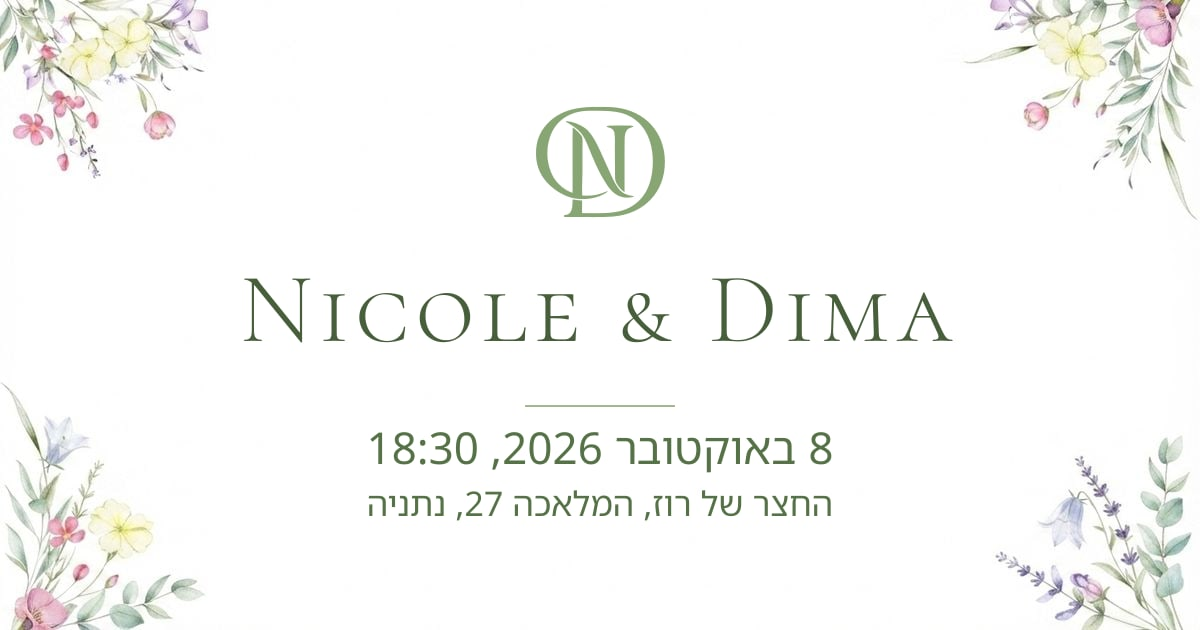
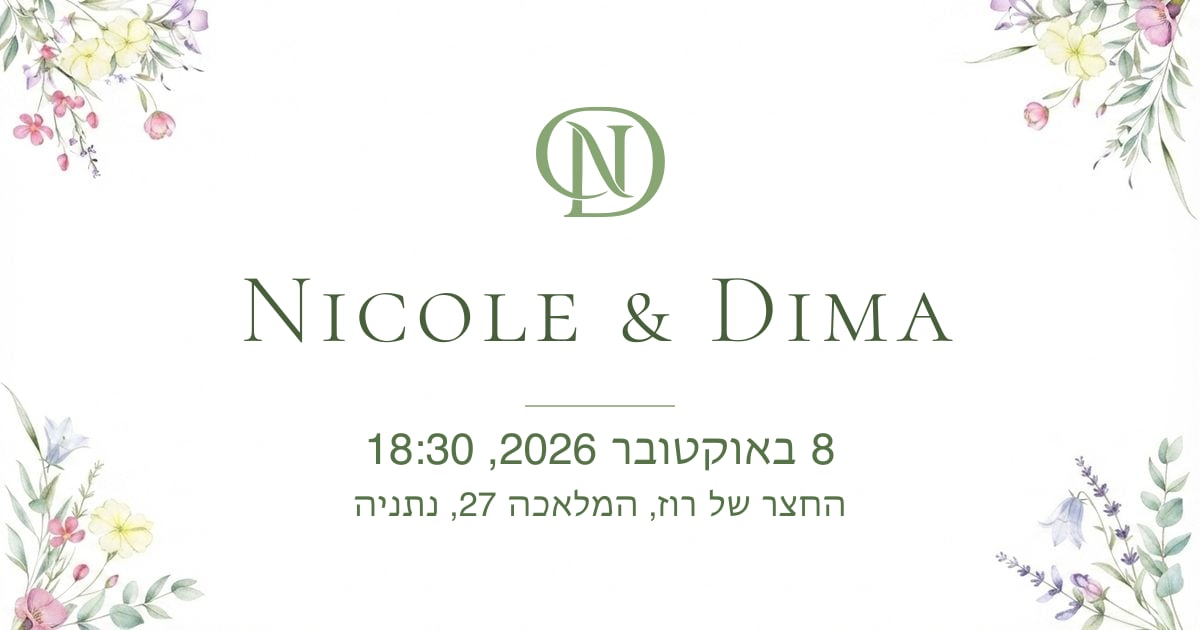
Build a Russian preview card, not just a Russian locale tag
The card paints the date and venue onto the artwork, and both were Hebrew
for everyone — so a Russian household got a Russian description line under a
picture that still read '8 באוקטובר 2026' and a Hebrew address. The og:locale
was right and the image was not, which is the half nobody reads twice.

npm run og-card now builds one card per language from the same artwork:
og-card.jpg and og-card-ru.jpg. Only the two painted lines differ — the
florals, the monogram and the Latin 'NICOLE & DIMA' are identical, because
the invitation is lettered that way and that is a property of the artwork,
not of the language.

The date uses localeFor(language) and the venue venueForDisplay(), so the
card cannot disagree with the page it advertises: both read from the same two
functions.

These are static files. Nothing regenerates them at runtime and no build will
notice they are stale, so rebuilding and committing both after any change to
the date, the venue or the artwork is now recorded in progress.md.

Verified: / advertises og-card.jpg, /?lang=ru advertises og-card-ru.jpg, both
are served, and both are ~50 KB against the 600 KB ceiling where WhatsApp
silently drops the picture.

Changed region(s): [[0.3083, 0.6635, 0.7092, 0.754], [0.2775, 0.7841, 0.7092, 0.8444]]

diff --git a/scripts/build-og-card.ts b/scripts/build-og-card.ts
@@ -25,11 +25,14 @@ import { createElement } from 'react'
 import { ImageResponse } from 'next/og'
 import { createClient } from '@supabase/supabase-js'
 import { formatDateTime } from '../lib/datetime'
+import { localeFor } from '../lib/strings'
+import { venueForDisplay } from '../lib/venue'
+import { LANGUAGES, type Language, type WeddingConfig } from '../lib/types'
 import {
   OG_CARD_HEIGHT,
   OG_CARD_MAX_BYTES,
-  OG_CARD_PATH,
   OG_CARD_WIDTH,
+  OG_CARD_PATHS,
   OG_COUPLE_NAMES,
 } from '../lib/og'
 
@@ -126,7 +129,7 @@ function readEnv(name: string): string {
  * a React Server Component. scripts/create-admin.ts talks to Supabase the same
  * way for the same reason.
  */
-async function readCardText(): Promise<CardText> {
+async function readCardText(language: Language): Promise<CardText> {
   const supabase = createClient(
     readEnv('NEXT_PUBLIC_SUPABASE_URL'),
     readEnv('SUPABASE_SECRET_KEY'),
@@ -135,7 +138,7 @@ async function readCardText(): Promise<CardText> {
 
   const { data, error } = await supabase
     .from('wedding_config')
-    .select('couple_names, wedding_date_time, venue_name')
+    .select('couple_names, wedding_date_time, venue_name, venue_name_ru')
     .single()
 
   if (error) {
@@ -143,11 +146,14 @@ async function readCardText(): Promise<CardText> {
   }
 
   return {
-    // The card's own Latin lettering wins; config is the fallback.
+    // The card's own Latin lettering wins; config is the fallback. Identical in
+    // both languages — the invitation is lettered "NICOLE & DIMA".
     couple: OG_COUPLE_NAMES.trim() || (data.couple_names ?? '').trim(),
-    // Via lib/datetime, so the card reads the same instant as every screen.
-    when: formatDateTime(data.wedding_date_time),
-    venue: (data.venue_name ?? '').trim(),
+    // Via lib/datetime, so the card reads the same instant as every screen —
+    // and in the reader's language, which is the point of building two cards.
+    when: formatDateTime(data.wedding_date_time, localeFor(language)),
+    // Display, never navigation: the card is read, not tapped (lib/venue.ts).
+    venue: venueForDisplay(data as unknown as WeddingConfig, language).trim(),
   }
 }
 
@@ -282,14 +288,17 @@ async function main(): Promise<void> {
   const source = process.argv[2] ?? DEFAULT_SOURCE
   readFileSync(source) // fail here, with the path, rather than inside sharp
 
-  const text = await readCardText()
-  const destination = path.join('public', OG_CARD_PATH.replace(/^\//, ''))
-
   // The monogram is composited as its own layer rather than embedded in the SVG
   // overlay: librsvg would have to resolve a nested file reference, and a
   // silently-missing one is a card that ships with a hole in it.
   const logo = await sharp(LOGO).resize({ height: LOGO_HEIGHT }).png().toBuffer()
   const { width: logoWidth } = await sharp(logo).metadata()
+
+  // One card per language. They share the artwork and the Latin couple name;
+  // the painted date and venue are what differ.
+  for (const language of LANGUAGES) {
+  const text = await readCardText(language)
+  const destination = path.join('public', OG_CARD_PATHS[language].replace(/^\//, ''))
   const coupleName = await renderCoupleName(text.couple)
 
   await sharp(await composeArtwork(source))
@@ -313,15 +322,15 @@ async function main(): Promise<void> {
     )
   }
 
-  console.log(`${source} → ${destination}`)
-  console.log(`${OG_CARD_WIDTH}×${OG_CARD_HEIGHT}, ${kb} KB (budget ${OG_CARD_MAX_BYTES / 1024} KB)`)
+  console.log(`[${language}] ${source} → ${destination}`)
+  console.log(`      ${OG_CARD_WIDTH}×${OG_CARD_HEIGHT}, ${kb} KB (budget ${OG_CARD_MAX_BYTES / 1024} KB)`)
+  console.log(`      ${text.couple || '(no couple names set)'}`)
+  console.log(`      ${text.when || '(no date set)'}`)
+  console.log(`      ${text.venue || '(no venue set)'}`)
   console.log('')
-  console.log('Painted onto the card, from wedding_config:')
-  console.log(`  ${text.couple || '(no couple names set)'}`)
-  console.log(`  ${text.when || '(no date set)'}`)
-  console.log(`  ${text.venue || '(no venue set)'}`)
-  console.log('')
-  console.log('Look at it, then commit it: the card is served as a static file.')
+  }
+
+  console.log('Look at both, then commit them: the cards are served as static files.')
 }
 
 main().catch((error: unknown) => {

diff --git a/lib/og.ts b/lib/og.ts
@@ -38,17 +38,20 @@ export const OG_COUPLE_NAMES = 'Nicole & Dima'
 /**
  * Public path of the built card, per language. Served straight from `public/`.
  *
- * Russian points at the same file until the designer delivers a Russian
- * invitation — the card is a composition OF the artwork, so the two change
- * together. Rebuild with `npm run og-card <file>` after swapping the backdrop
- * in components/guest/invitation-backdrop.tsx.
+ * Two files, because the card PAINTS the date and venue onto the artwork and
+ * both differ by language — a Russian household reading a Hebrew date and a
+ * Hebrew address in the picture is the thing this exists to fix.
+ *
+ * `npm run og-card` builds both. They share the artwork; only the painted lines
+ * differ. When the designer delivers a Russian invitation, point the script at
+ * it and the two will differ in the picture as well.
  */
 export const OG_CARD_PATHS: Record<Language, string> = {
   he: '/assets/og-card.jpg',
-  ru: '/assets/og-card.jpg',
+  ru: '/assets/og-card-ru.jpg',
 }
 
-/** The Hebrew card. Kept for the build script, which composes one at a time. */
+/** The Hebrew card, where a single default is needed. */
 export const OG_CARD_PATH = OG_CARD_PATHS.he
 
 export const OG_CARD_WIDTH = 1200

diff --git a/docs/progress.md b/docs/progress.md
@@ -167,6 +167,10 @@ Data comes from `getInviteByToken()` and `getConfig()` in `lib/data`.
 
 Each of these cost real time or was found by testing. They are all live decisions, not history.
 
+**The preview card PAINTS the date and venue onto the artwork** (2026-08-02), so they are language-dependent and `npm run og-card` now builds two files — `og-card.jpg` and `og-card-ru.jpg`. Rebuild BOTH and commit both whenever the date, the venue or the artwork changes; they are static files, so nothing at runtime regenerates them and nothing in a build will notice they are stale.
+
+The Latin couple name is identical in both by design — the invitation is lettered "NICOLE & DIMA".
+
 **The venue name has two jobs, split by job rather than by language** (2026-08-02). `venue_name` is what Waze searches and is never translated; `venue_name_ru` is display only, for the preview line and the guest page. Waze finds the Hebrew address and may find nothing for a Cyrillic transliteration, so a guest tapping "Как добраться" into a dead end is the failure this avoids. Blank `venue_name_ru` falls back to Hebrew — the OPPOSITE of the message templates, which must not fall back, because a Hebrew address is still usable to a Russian speaker while a whole Hebrew invitation is not. See `lib/venue.ts`.
 
 **Ship the migration BEFORE the code that needs it** (2026-08-02). The settings form started sending `venue_name_ru` while the column did not exist yet, so the first thing Dmitri saw was a 500 on save rather than a new field. Migration first, then the code.

diff --git a/docs/russian-copy-review.md b/docs/russian-copy-review.md
@@ -130,6 +130,8 @@ Not page copy. WhatsApp always prints these above the message, so the only choic
 
 **The three WhatsApp message templates.** Those are yours to write, not translate — you'll type them in the admin under **הגדרות → הודעות ברוסית**. They're currently empty, which means a Russian household would get a blank message. Deliberate: it does not fall back to Hebrew, and the settings tab warns you as soon as a Russian household exists.
 
+**The preview card's text.** It is painted onto the artwork by `scripts/build-og-card.ts` from `wedding_config`, not written here — the date follows the language's locale and the venue comes from `venue_name_ru`. Run `npm run og-card` after changing either.
+
 **The calendar file (`.ics`).** It names an Israeli venue and is titled with `couple_names`, both of which stay Hebrew. Decided, not overlooked.
 
 **The admin panel.** Hebrew only — you're the only person who uses it.
